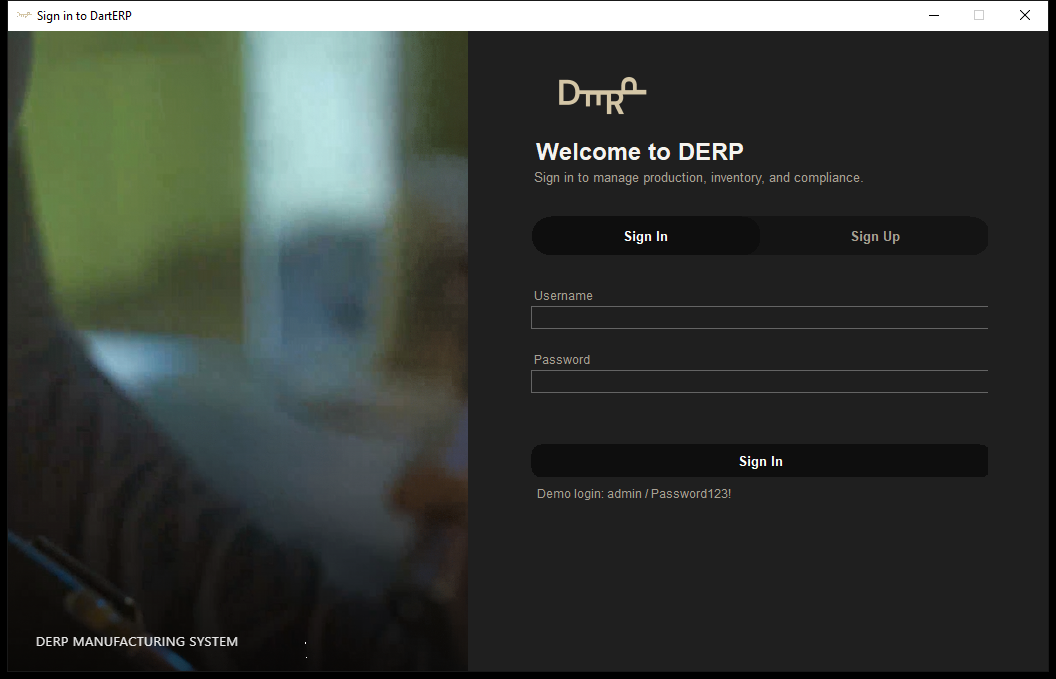
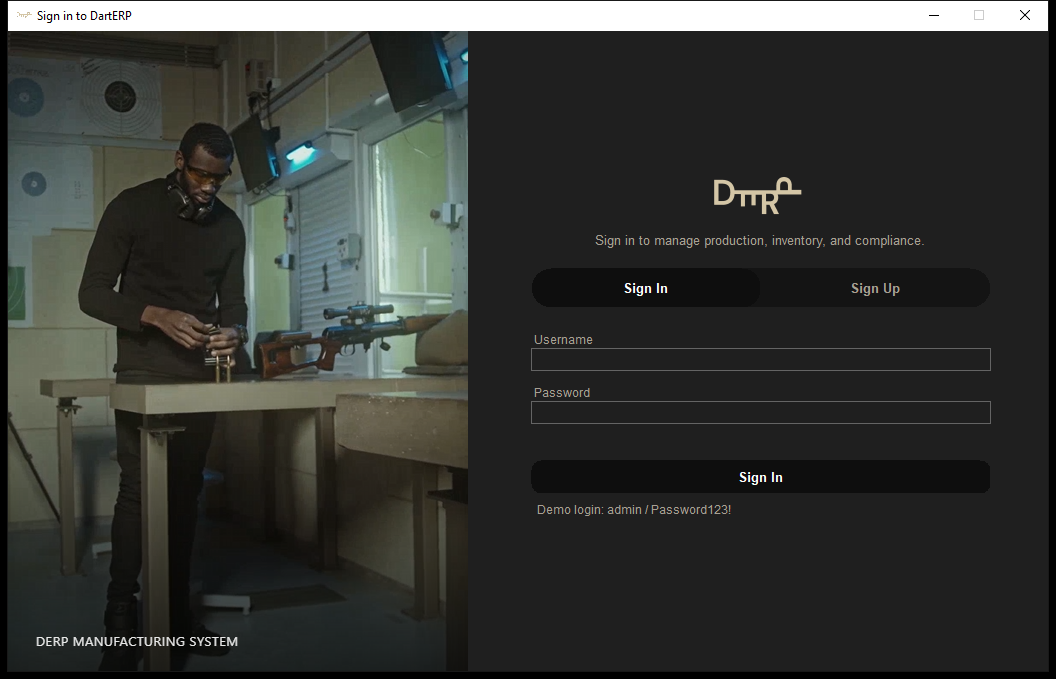
Polish login screen: remove headline, center content, default dark mode
Dropped the "Welcome to DERP" headline and centered the logo/subtext
instead (widening the logo's PictureBox to the full column width lets
Zoom mode center it automatically). Vertically centers the whole sign-in
block in the window rather than pinning it to the top — recomputed
whenever the Sign In/Sign Up panel changes, since they're very different
heights. Tightened field-row spacing so Sign Up fits without a scrollbar
even before centering.

Default theme is now Dark instead of Light (AppPreferences.Theme).

diff --git a/src/DartERP.WinForms/Forms/LoginForm.cs b/src/DartERP.WinForms/Forms/LoginForm.cs
@@ -25,6 +25,8 @@ public class LoginForm : Form
     private readonly Button _signUpTab;
     private readonly Panel _signInPanel;
     private readonly Panel _signUpPanel;
+    private readonly FlowLayoutPanel _stack;
+    private Panel _formPanel = null!;
 
     private readonly TextBox _signInUsername = new TextBox().StyleAsInput();
     private readonly TextBox _signInPassword = new TextBox().StyleAsInput();
@@ -72,64 +74,80 @@ public class LoginForm : Form
         _signInTab.Click += (_, _) => ShowSignIn();
         _signUpTab.Click += (_, _) => ShowSignUp();
 
-        var stack = new FlowLayoutPanel
+        _stack = new FlowLayoutPanel
         {
             FlowDirection = FlowDirection.TopDown,
             WrapContents = false,
             AutoSize = true,
-            Dock = DockStyle.Top,
         };
+        var stack = _stack;
         stack.Controls.Add(BuildLogo());
-        stack.Controls.Add(BuildHeadline());
         stack.Controls.Add(BuildSubtext());
-        stack.Controls.Add(Spacer(16));
+        stack.Controls.Add(Spacer(8));
         stack.Controls.Add(toggleHost);
-        stack.Controls.Add(Spacer(20));
+        stack.Controls.Add(Spacer(12));
         stack.Controls.Add(_signInPanel);
         stack.Controls.Add(_signUpPanel);
 
-        var formPanel = new Panel
+        _formPanel = new Panel
         {
             Dock = DockStyle.Fill,
             BackColor = Theme.CardBackground,
-            Padding = new Padding(60, 44, 60, 28),
-            // Sign In fits comfortably in the fixed 640px-tall window, but
-            // Sign Up's extra fields (email, role, phone, confirm password)
-            // push the total content past that — without this, "Confirm
-            // Password" and the submit button just get clipped off the
-            // bottom with no way to reach them. AutoScroll only kicks in
-            // when content actually overflows, so Sign In stays exactly as
-            // it looked before.
-            AutoScroll = true,
+            Padding = new Padding(60, 28, 60, 20),
+            // The field rows below were tightened specifically so Sign Up
+            // (7 fields, the tallest panel) fits inside the fixed 640px
+            // window. No AutoScroll here on purpose — it fought the manual
+            // vertical-centering math in CenterStack() (the scroll canvas
+            // wouldn't shrink back down after expanding once), and since
+            // Sign Up already fits without it, a plain Panel is simpler and
+            // has no scrollbar to fight.
         };
-        formPanel.Controls.Add(stack);
+        _formPanel.Controls.Add(stack);
 
-        Controls.Add(formPanel);
+        Controls.Add(_formPanel);
         Controls.Add(videoPanel);
 
         ShowSignIn();
+        _formPanel.Resize += (_, _) => CenterStack();
+        // Belt-and-suspenders: there's no window handle yet at construction
+        // time, so a nested AutoSize FlowLayoutPanel's height isn't
+        // guaranteed to have settled by the time ShowSignIn() above runs
+        // CenterStack() the first time. Shown fires once the form and every
+        // child have gone through a real layout pass, so re-centering there
+        // is what actually sticks on first paint.
+        Shown += (_, _) => CenterStack();
         Load += async (_, _) => await InitializeVideoAsync();
+    }
+
+    // The stack isn't docked — Sign In and Sign Up are very different
+    // heights (2 fields vs. 7), and centering it dead in the middle of the
+    // window looks right for both, whereas docking it to the top left a lot
+    // of dead space under the short Sign In form. Re-run any time the
+    // visible panel (and therefore the stack's total height) changes.
+    // Reads PreferredSize rather than Height directly — Height only
+    // reflects the last completed layout pass, which is stale/zero at
+    // construction time, where PreferredSize recomputes on demand instead.
+    private void CenterStack()
+    {
+        var x = _formPanel.Padding.Left;
+        var y = Math.Max(_formPanel.Padding.Top, (_formPanel.ClientSize.Height - _stack.PreferredSize.Height) / 2);
+        _stack.Location = new Point(x, y);
     }
 
     private static Panel Spacer(int height) => new() { Height = height, Width = ContentWidth };
 
     private static PictureBox BuildLogo() => new()
     {
+        // Width matches ContentWidth rather than the logo's own natural
+        // size — Zoom mode preserves the image's aspect ratio and centers
+        // it within whatever box it's given, so widening the box to the
+        // full column width is what actually centers the logo instead of
+        // it sitting flush against the left edge.
         Image = AppAssets.Logo,
         SizeMode = PictureBoxSizeMode.Zoom,
-        Width = 150,
-        Height = 42,
-        Margin = new Padding(0, 0, 0, 20),
-    };
-
-    private static Label BuildHeadline() => new()
-    {
-        Text = "Welcome to DERP",
-        Font = Theme.FontHeader,
-        ForeColor = Theme.TextPrimary,
-        AutoSize = false,
         Width = ContentWidth,
-        Height = 32,
+        Height = 42,
+        Margin = new Padding(0, 0, 0, 12),
     };
 
     private static Label BuildSubtext() => new()
@@ -137,6 +155,7 @@ public class LoginForm : Form
         Text = "Sign in to manage production, inventory, and compliance.",
         Font = Theme.FontBody,
         ForeColor = Theme.TextSecondary,
+        TextAlign = ContentAlignment.MiddleCenter,
         AutoSize = false,
         Width = ContentWidth,
         Height = 22,
@@ -179,6 +198,7 @@ public class LoginForm : Form
         _signInPanel.Visible = true;
         _signUpPanel.Visible = false;
         StyleToggle(active: _signInTab, inactive: _signUpTab);
+        CenterStack();
     }
 
     private void ShowSignUp()
@@ -186,6 +206,7 @@ public class LoginForm : Form
         _signInPanel.Visible = false;
         _signUpPanel.Visible = true;
         StyleToggle(active: _signUpTab, inactive: _signInTab);
+        CenterStack();
     }
 
     private static void StyleToggle(Button active, Button inactive)
@@ -245,7 +266,7 @@ public class LoginForm : Form
         errorLabel = BuildErrorLabel();
         stack.Controls.Add(errorLabel);
 
-        var createButton = new Button { Text = "Create Account", Width = ContentWidth, Height = 38, Margin = new Padding(0, 4, 0, 8) }.StyleAsPrimaryButton();
+        var createButton = new Button { Text = "Create Account", Width = ContentWidth, Height = 38, Margin = new Padding(0, 2, 0, 4) }.StyleAsPrimaryButton();
         createButton.Click += async (_, _) => await SignUpAsync();
         stack.Controls.Add(createButton);
 
@@ -285,14 +306,14 @@ public class LoginForm : Form
 
     private static Panel BuildField(string labelText, Control input)
     {
-        var panel = new Panel { Width = ContentWidth, Height = 60, Margin = new Padding(0, 0, 0, 4) };
+        var panel = new Panel { Width = ContentWidth, Height = 50, Margin = new Padding(0, 0, 0, 3) };
         var label = new Label
         {
             Text = labelText,
             Font = Theme.FontSmall,
             ForeColor = Theme.TextSecondary,
             Dock = DockStyle.Top,
-            Height = 18,
+            Height = 16,
         };
         input.Dock = DockStyle.Top;
         input.Height = 30;
@@ -309,8 +330,8 @@ public class LoginForm : Form
         ForeColor = Theme.DangerRed,
         AutoSize = false,
         Width = ContentWidth,
-        Height = 20,
-        Margin = new Padding(0, 0, 0, 4),
+        Height = 16,
+        Margin = new Padding(0, 0, 0, 2),
     };
 
     private async Task SignInAsync()

diff --git a/src/DartERP.WinForms/Local/AppPreferences.cs b/src/DartERP.WinForms/Local/AppPreferences.cs
@@ -10,7 +10,7 @@ namespace DartERP.WinForms.Local;
 /// </summary>
 public class AppPreferences
 {
-    public ThemeMode Theme { get; set; } = ThemeMode.Light;
+    public ThemeMode Theme { get; set; } = ThemeMode.Dark;
 
     private static string FilePath => Path.Combine(
         Environment.GetFolderPath(Environment.SpecialFolder.LocalApplicationData),
